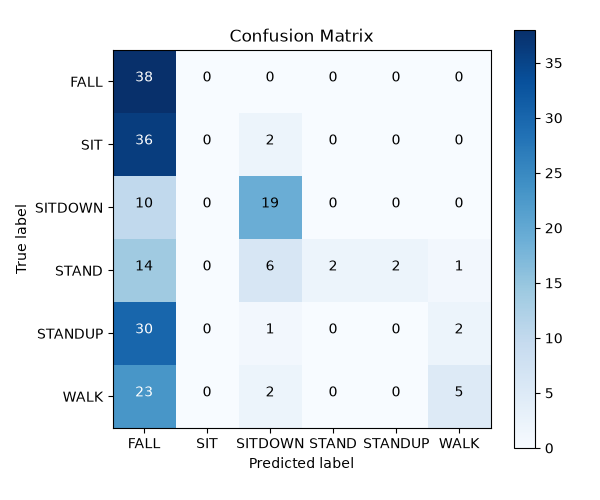
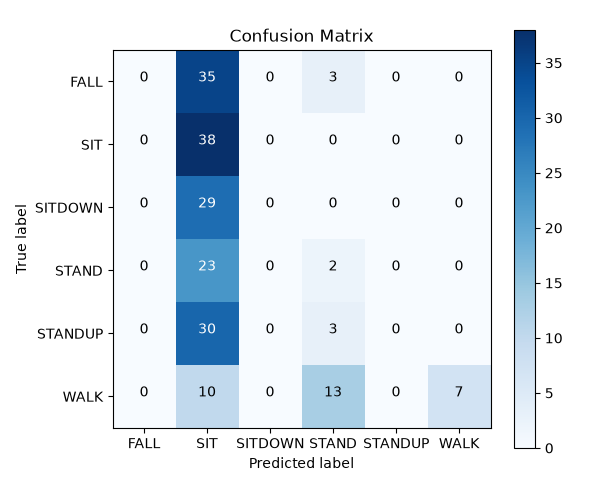
feat: implement gait data preprocessing pipeline and 2D CNN training script with model evaluation tool

diff --git a/scripts/models/train_gait_cnn.py b/scripts/models/train_gait_cnn.py
@@ -7,24 +7,24 @@ import matplotlib.pyplot as plt
 import os
 
 def build_gait_cnn(n_timesteps, n_features, n_classes=3):
-    inputs = tf.keras.Input(shape=(n_timesteps, n_features))
+    inputs = tf.keras.Input(shape=(n_timesteps, n_features, 1))
     
     # Block 1: capture step-level patterns (~0.5-1 second)
-    x = layers.Conv1D(32, kernel_size=5, padding='same', activation='relu')(inputs)
+    x = layers.Conv2D(32, kernel_size=(5, 5), padding='same', activation='relu')(inputs)
     x = layers.BatchNormalization()(x)
-    x = layers.MaxPooling1D(pool_size=2)(x)
+    x = layers.MaxPooling2D(pool_size=(2, 2))(x)
     x = layers.Dropout(0.2)(x)
     
     # Block 2: capture stride-level patterns (~1-2 seconds)
-    x = layers.Conv1D(64, kernel_size=5, padding='same', activation='relu')(x)
+    x = layers.Conv2D(64, kernel_size=(5, 5), padding='same', activation='relu')(x)
     x = layers.BatchNormalization()(x)
-    x = layers.MaxPooling1D(pool_size=2)(x)
+    x = layers.MaxPooling2D(pool_size=(2, 2))(x)
     x = layers.Dropout(0.2)(x)
     
     # Block 3: high-level temporal features
-    x = layers.Conv1D(64, kernel_size=3, padding='same', activation='relu')(x)
+    x = layers.Conv2D(64, kernel_size=(3, 3), padding='same', activation='relu')(x)
     x = layers.BatchNormalization()(x)
-    x = layers.GlobalAveragePooling1D()(x)
+    x = layers.GlobalAveragePooling2D()(x)
     x = layers.Dropout(0.3)(x)
     
     # Classifier head
@@ -32,7 +32,7 @@ def build_gait_cnn(n_timesteps, n_features, n_classes=3):
     x = layers.Dropout(0.2)(x)
     outputs = layers.Dense(n_classes, activation='softmax')(x)
     
-    return models.Model(inputs, outputs, name='gait_1dcnn')
+    return models.Model(inputs, outputs, name='gait_2dcnn')
 
 def main():
     print("Loading data...")
@@ -48,10 +48,10 @@ def main():
     labels = [k for k, v in sorted(class_to_id.items(), key=lambda item: item[1])]
     n_classes = len(labels)
 
-    # Squeeze trailing channel dimension if present (e.g. from (N, 200, 256, 1) to (N, 200, 256))
-    if len(X_train.shape) == 4 and X_train.shape[3] == 1:
-        X_train = np.squeeze(X_train, axis=-1)
-        X_test = np.squeeze(X_test, axis=-1)
+    # Ensure trailing channel dimension is present for 2D CNN (e.g. from (N, 200, 256) to (N, 200, 256, 1))
+    if len(X_train.shape) == 3:
+        X_train = np.expand_dims(X_train, axis=-1)
+        X_test = np.expand_dims(X_test, axis=-1)
     
     n_subcarriers = X_train.shape[2]
     print(f"Data loaded. n_subcarriers: {n_subcarriers}, X_train shape: {X_train.shape}, n_classes: {n_classes}")
@@ -65,7 +65,7 @@ def main():
     for i in range(n_classes):
         idx = np.where(y_train == i)[0]
         if len(idx) > 0:
-            sample = X_train[idx[0]]
+            sample = np.squeeze(X_train[idx[0]])
             ax = axes[i]
             # Transpose so time is x-axis, subcarriers is y-axis
             im = ax.imshow(sample.T, aspect='auto', cmap='viridis', origin='lower')
@@ -112,12 +112,41 @@ def main():
     print("X_train mean:", X_train.mean())
     print("X_train std:", X_train.std())
     
+    X_train = X_train.astype(np.float32)
+    X_test = X_test.astype(np.float32)
+    
     print("Training model...")
+    # Manual split for validation since we use tf.data
+    # Ensure shuffle before split so validation is representative
+    indices = np.arange(len(X_train))
+    np.random.shuffle(indices)
+    split_idx = int(len(X_train) * 0.85)
+    train_idx, val_idx = indices[:split_idx], indices[split_idx:]
+    
+    X_train_split, y_train_split = X_train[train_idx], y_train[train_idx]
+    X_val_split, y_val_split = X_train[val_idx], y_train[val_idx]
+    
+    @tf.function
+    def augment(x, y):
+        # Add Gaussian noise
+        noise = tf.random.normal(shape=tf.shape(x), mean=0.0, stddev=0.05, dtype=tf.float32)
+        x = x + noise
+        
+        # Scale amplitude slightly
+        scale = tf.random.uniform(shape=[], minval=0.9, maxval=1.1, dtype=tf.float32)
+        x = x * scale
+        
+        return x, y
+
+    train_dataset = tf.data.Dataset.from_tensor_slices((X_train_split, y_train_split))
+    train_dataset = train_dataset.shuffle(buffer_size=1024).map(augment, num_parallel_calls=tf.data.AUTOTUNE).batch(64).prefetch(tf.data.AUTOTUNE)
+    
+    val_dataset = tf.data.Dataset.from_tensor_slices((X_val_split, y_val_split)).batch(64).prefetch(tf.data.AUTOTUNE)
+
     history = model.fit(
-        X_train, y_train,
+        train_dataset,
         epochs=50,
-        batch_size=64,
-        validation_split=0.15,
+        validation_data=val_dataset,
         class_weight=class_weight_dict,
         callbacks=callbacks,
         verbose=1

diff --git a/scripts/preprocess_gait.py b/scripts/preprocess_gait.py
@@ -70,8 +70,11 @@ def main():
                     # Just take the first antenna/tx-rx pair
                     csi_matrix = csi_matrix[:, :, 0]
                 
+                amplitude = np.abs(csi_matrix)
+                # Remove static background
+                diff_amp = np.diff(amplitude, axis=0)
                 # Apply Bandpass filter
-                filtered_csi = bandpass_filter(np.abs(csi_matrix))
+                filtered_csi = bandpass_filter(diff_amp)
                 
                 # Sliding window
                 for start in range(0, len(filtered_csi) - window_size + 1, window_size - overlap):
